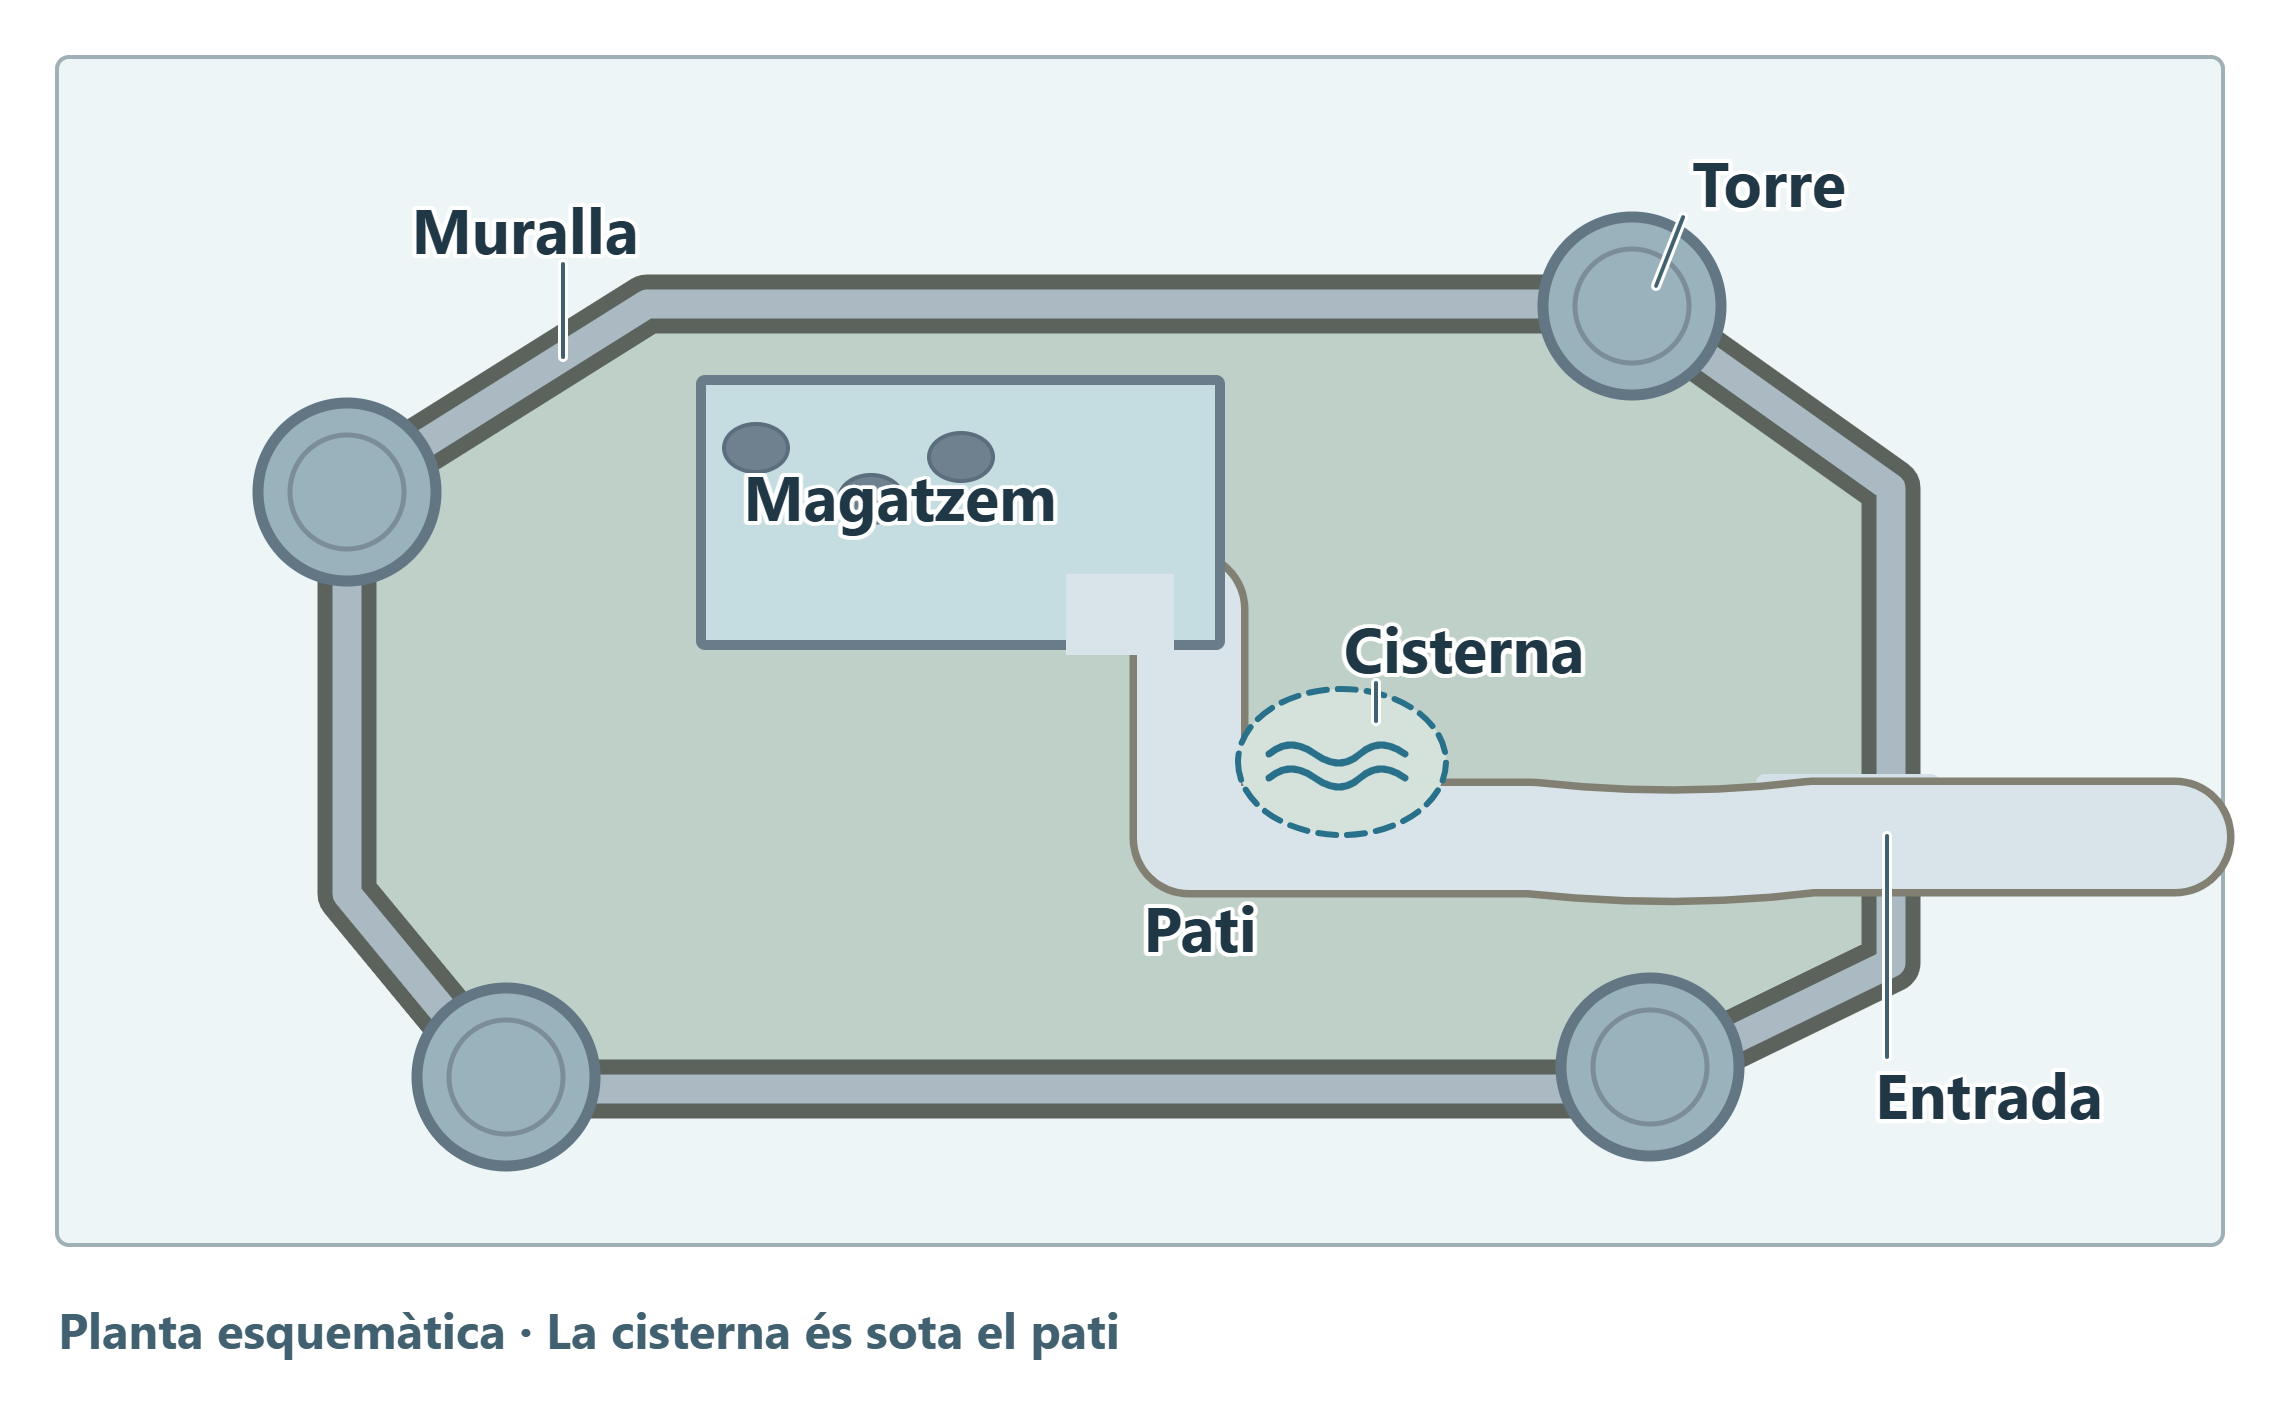
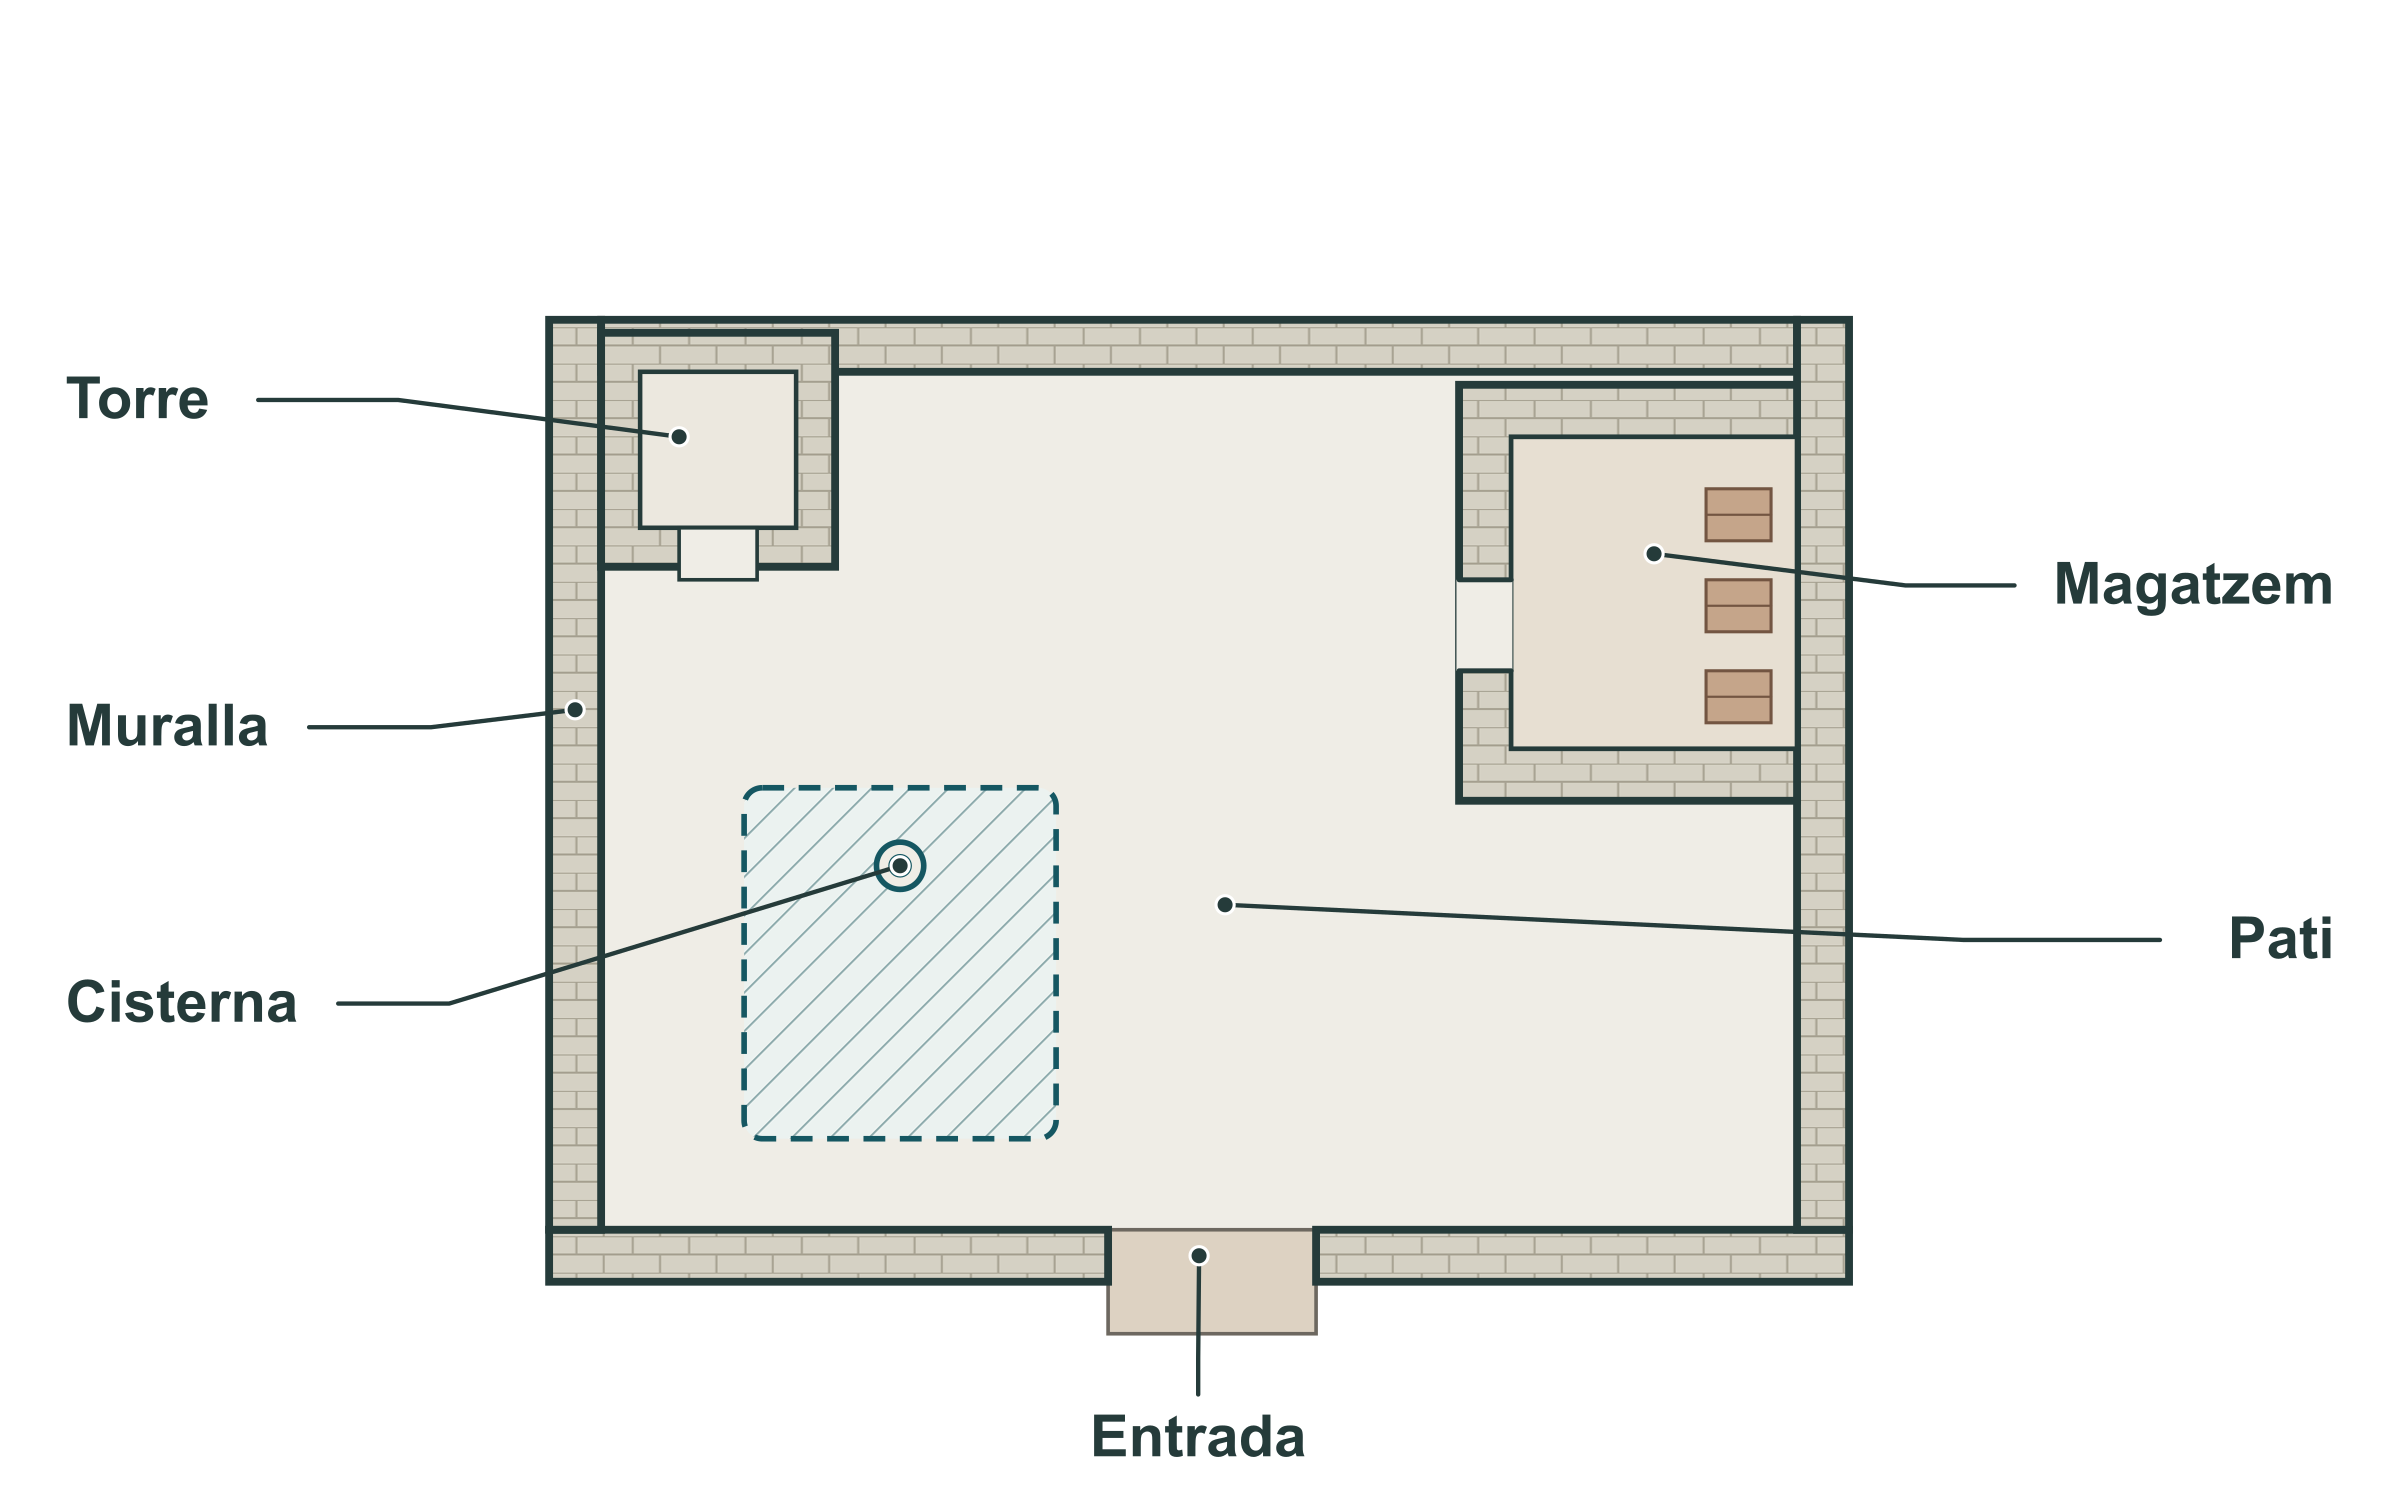
Publica la prova Pla i Atles del castell M039 (v0.1.88)

diff --git a/docs/index.html b/docs/index.html
@@ -7,17 +7,17 @@
   <title>Món a mà · Apunts i materials per explorar el medi</title>
   <link rel="icon" type="image/png" sizes="32x32" href="assets/favicon.png?v=0.1.4">
   <link rel="apple-touch-icon" href="assets/mon-a-ma.png?v=0.1.4">
-  <link rel="stylesheet" href="estils.css?v=0.1.87">
-  <script src="interficie.js?v=0.1.87" defer></script>
-  <script src="continguts/terra-i-mapes.js?v=0.1.87" defer></script>
-  <script src="continguts/variants-terra-i-mapes.js?v=0.1.87" defer></script>
-  <script src="continguts/temes-3r-cicle-2.js?v=0.1.87" defer></script>
-  <script src="imprimible.js?v=0.1.87" defer></script>
-  <script src="preferencies.js?v=0.1.87" defer></script>
-  <script src="continguts/curriculum.js?v=0.1.87" defer></script>
-  <script src="mapa-curricular.js?v=0.1.87" defer></script>
-  <script src="incidencies.js?v=0.1.87" defer></script>
-  <script src="app.js?v=0.1.87" defer></script>
+  <link rel="stylesheet" href="estils.css?v=0.1.88">
+  <script src="interficie.js?v=0.1.88" defer></script>
+  <script src="continguts/terra-i-mapes.js?v=0.1.88" defer></script>
+  <script src="continguts/variants-terra-i-mapes.js?v=0.1.88" defer></script>
+  <script src="continguts/temes-3r-cicle-2.js?v=0.1.88" defer></script>
+  <script src="imprimible.js?v=0.1.88" defer></script>
+  <script src="preferencies.js?v=0.1.88" defer></script>
+  <script src="continguts/curriculum.js?v=0.1.88" defer></script>
+  <script src="mapa-curricular.js?v=0.1.88" defer></script>
+  <script src="incidencies.js?v=0.1.88" defer></script>
+  <script src="app.js?v=0.1.88" defer></script>
 </head>
 <body>
   <a class="skip" href="#main">Ves al contingut</a>
@@ -328,7 +328,7 @@
         <button type="button" id="reset-user" title="Restableix els ajustos de totes les fitxes, les plantilles, les col·leccions i les imatges pròpies.">Restableix preferències</button>
         <span id="reset-user-status" role="status"></span>
         <a href="https://github.com/aaronFortuno/mon-a-ma/blob/main/license.md">MIT</a>
-        <button type="button" data-dialog="release" aria-haspopup="dialog" aria-label="v0.1.87 · Historial de versions">v0.1.87</button>
+        <button type="button" data-dialog="release" aria-haspopup="dialog" aria-label="v0.1.88 · Historial de versions">v0.1.88</button>
         <button type="button" data-dialog="about" aria-haspopup="dialog" aria-label="V4V · Sobre el projecte">V4V</button>
       </nav>
     </div>
@@ -339,6 +339,8 @@
       <form method="dialog"><button type="submit" class="icon-button" aria-label="Tanca" autofocus><svg viewBox="0 0 24 24" aria-hidden="true"><path d="m6 6 12 12M18 6 6 18"/></svg></button></form>
     </div>
     <div class="dialog-content">
+      <h3>v0.1.88</h3>
+      <ul><li>Incorpora a l’M039 la prova en esborrany del castell amb planta Pla i tall Atles, pendent de validació.</li></ul>
       <h3>v0.1.87</h3>
       <ul>
         <li>Incorpora les tandes d’il·lustracions M033–M037 i M038–M042 amb els estils Pla i Atles i l’Atles per defecte.</li>

diff --git a/docs/continguts/terra-i-mapes.js b/docs/continguts/terra-i-mapes.js
@@ -2923,14 +2923,23 @@ window.quaderns ??= [];
     coverFigure: 'planta-castell-espais-i-usos',
     figures: [
       {
-        id: 'planta-castell-espais-i-usos', section: 'parts', name: 'Un castell vist en planta', ratio: 2280 / 1420,
-        width: 100, position: 'center', wrap: false, anchor: 'lead',
-        alt: 'El plànol mostra muralla amb torres, entrada, recorregut cap al pati i accés al magatzem. Un símbol d’aigua indica la cisterna sota el pati.',
-        caption: 'Planta de mostra d’un castell. Ressegueix com s’arriba de l’entrada al pati i localitza on es guardava l’aigua.',
-        credit: 'Dibuix didàctic de producció pròpia.',
+        id: 'planta-castell-espais-i-usos', section: 'parts', name: 'Planta i tall d’un castell', ratio: 2400 / 1509,
+        width: 100, position: 'center', wrap: false, anchor: 'paragraph-1',
         variants: {
-          pla: { src: 'illustracions/m039/planta-castell-espais-i-usos-pla.png', thumbnail: 'illustracions/m039/miniatures/planta-castell-espais-i-usos-pla.jpg' },
-          atles: { src: 'illustracions/m039/planta-castell-espais-i-usos-atles.png', thumbnail: 'illustracions/m039/miniatures/planta-castell-espais-i-usos-atles.jpg' },
+          pla: {
+            src: 'illustracions/m039/planta-castell-espais-i-usos-pla.png?v=0.1.88',
+            thumbnail: 'illustracions/m039/miniatures/planta-castell-espais-i-usos-pla.jpg?v=0.1.88',
+            alt: 'Planta d’un castell. L’entrada dona al pati amb la torre i el magatzem al fons. Un traç discontinu delimita la cisterna sota el pati.',
+            caption: 'Planta d’un castell imaginari. La trama marca la cisterna que hi ha sota el pati.',
+            credit: 'Dibuix didàctic de producció pròpia.',
+          },
+          atles: {
+            src: 'illustracions/m039/planta-castell-espais-i-usos-atles.png?v=0.1.88',
+            thumbnail: 'illustracions/m039/miniatures/planta-castell-espais-i-usos-atles.jpg?v=0.1.88',
+            alt: 'Tall oblic del mateix castell. Al davant i a l’esquerra es veuen la boca i el nivell de l’aigua al dipòsit sota el pati.',
+            caption: 'Reconstrucció didàctica del mateix castell. El tall permet veure la boca i el dipòsit d’aigua sota el pati.',
+            credit: 'Il·lustració generada i retolada per a Món a mà.',
+          },
         },
       },
       {

diff --git a/CHANGELOG.md b/CHANGELOG.md
@@ -1,5 +1,9 @@
 # Historial de versions
 
+## 0.1.88 · 28 de novembre de 2026
+
+- Incorpora a l’M039 la prova en esborrany del castell amb planta Pla i tall Atles, pendent de validació.
+
 ## 0.1.87 · 28 de novembre de 2026
 
 - Incorpora les tandes d’il·lustracions M033–M037 i M038–M042 amb els estils Pla i Atles i l’Atles per defecte.
